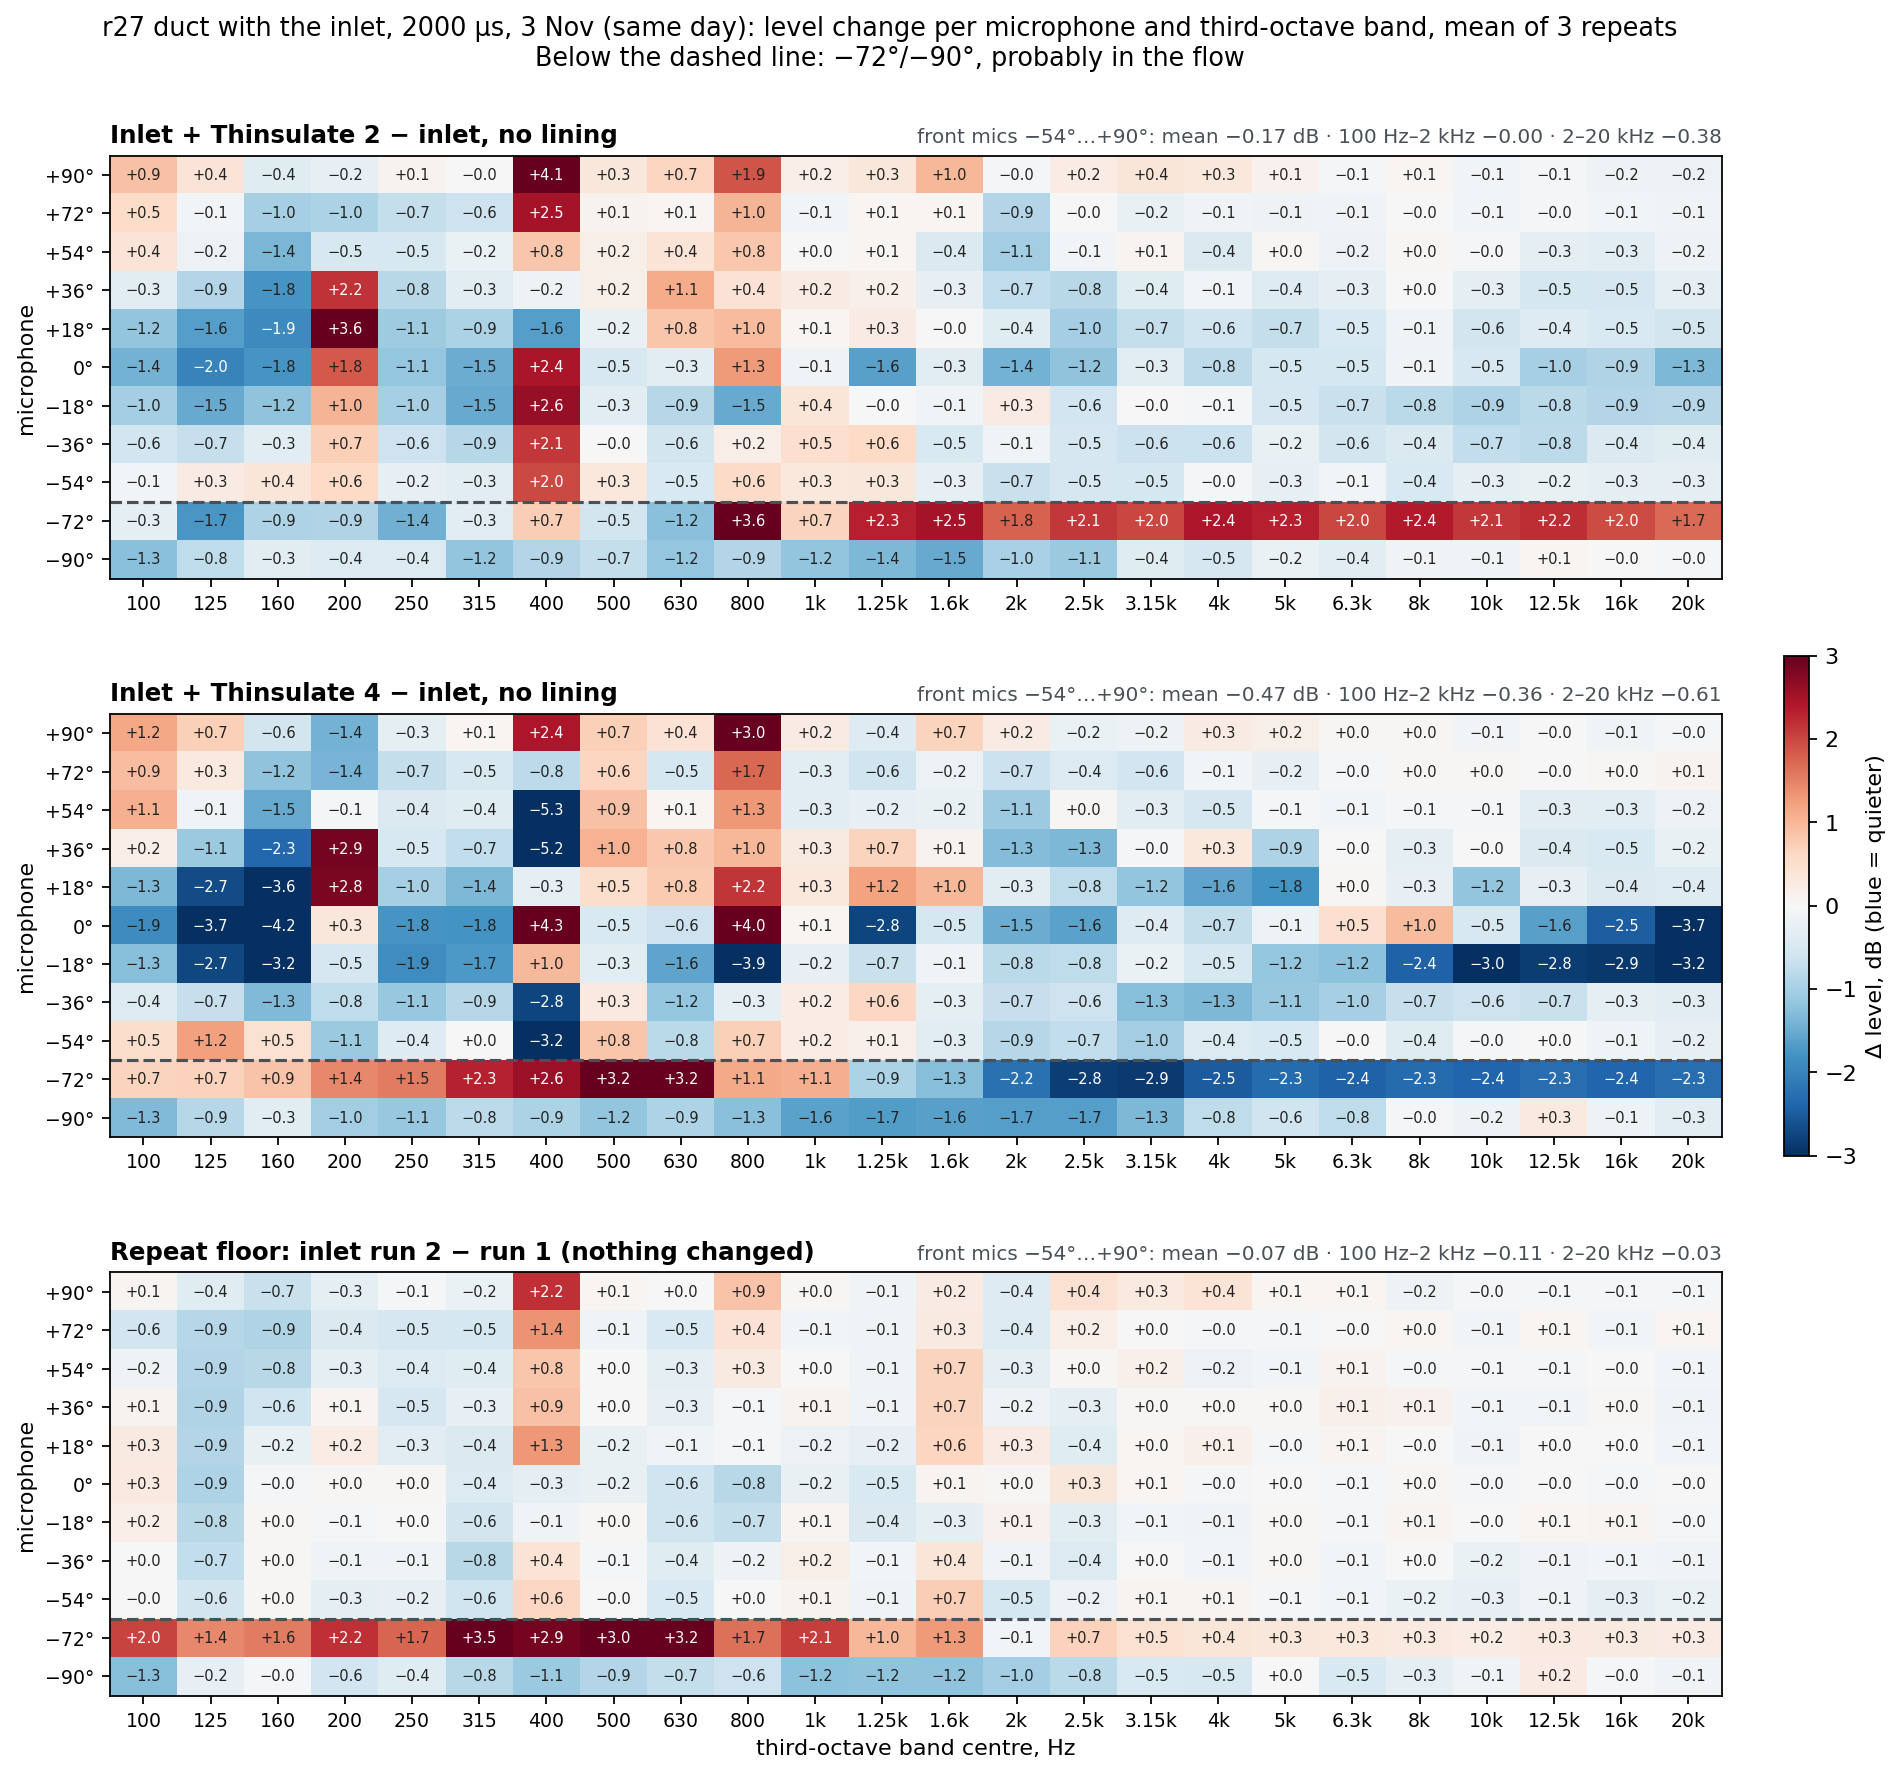
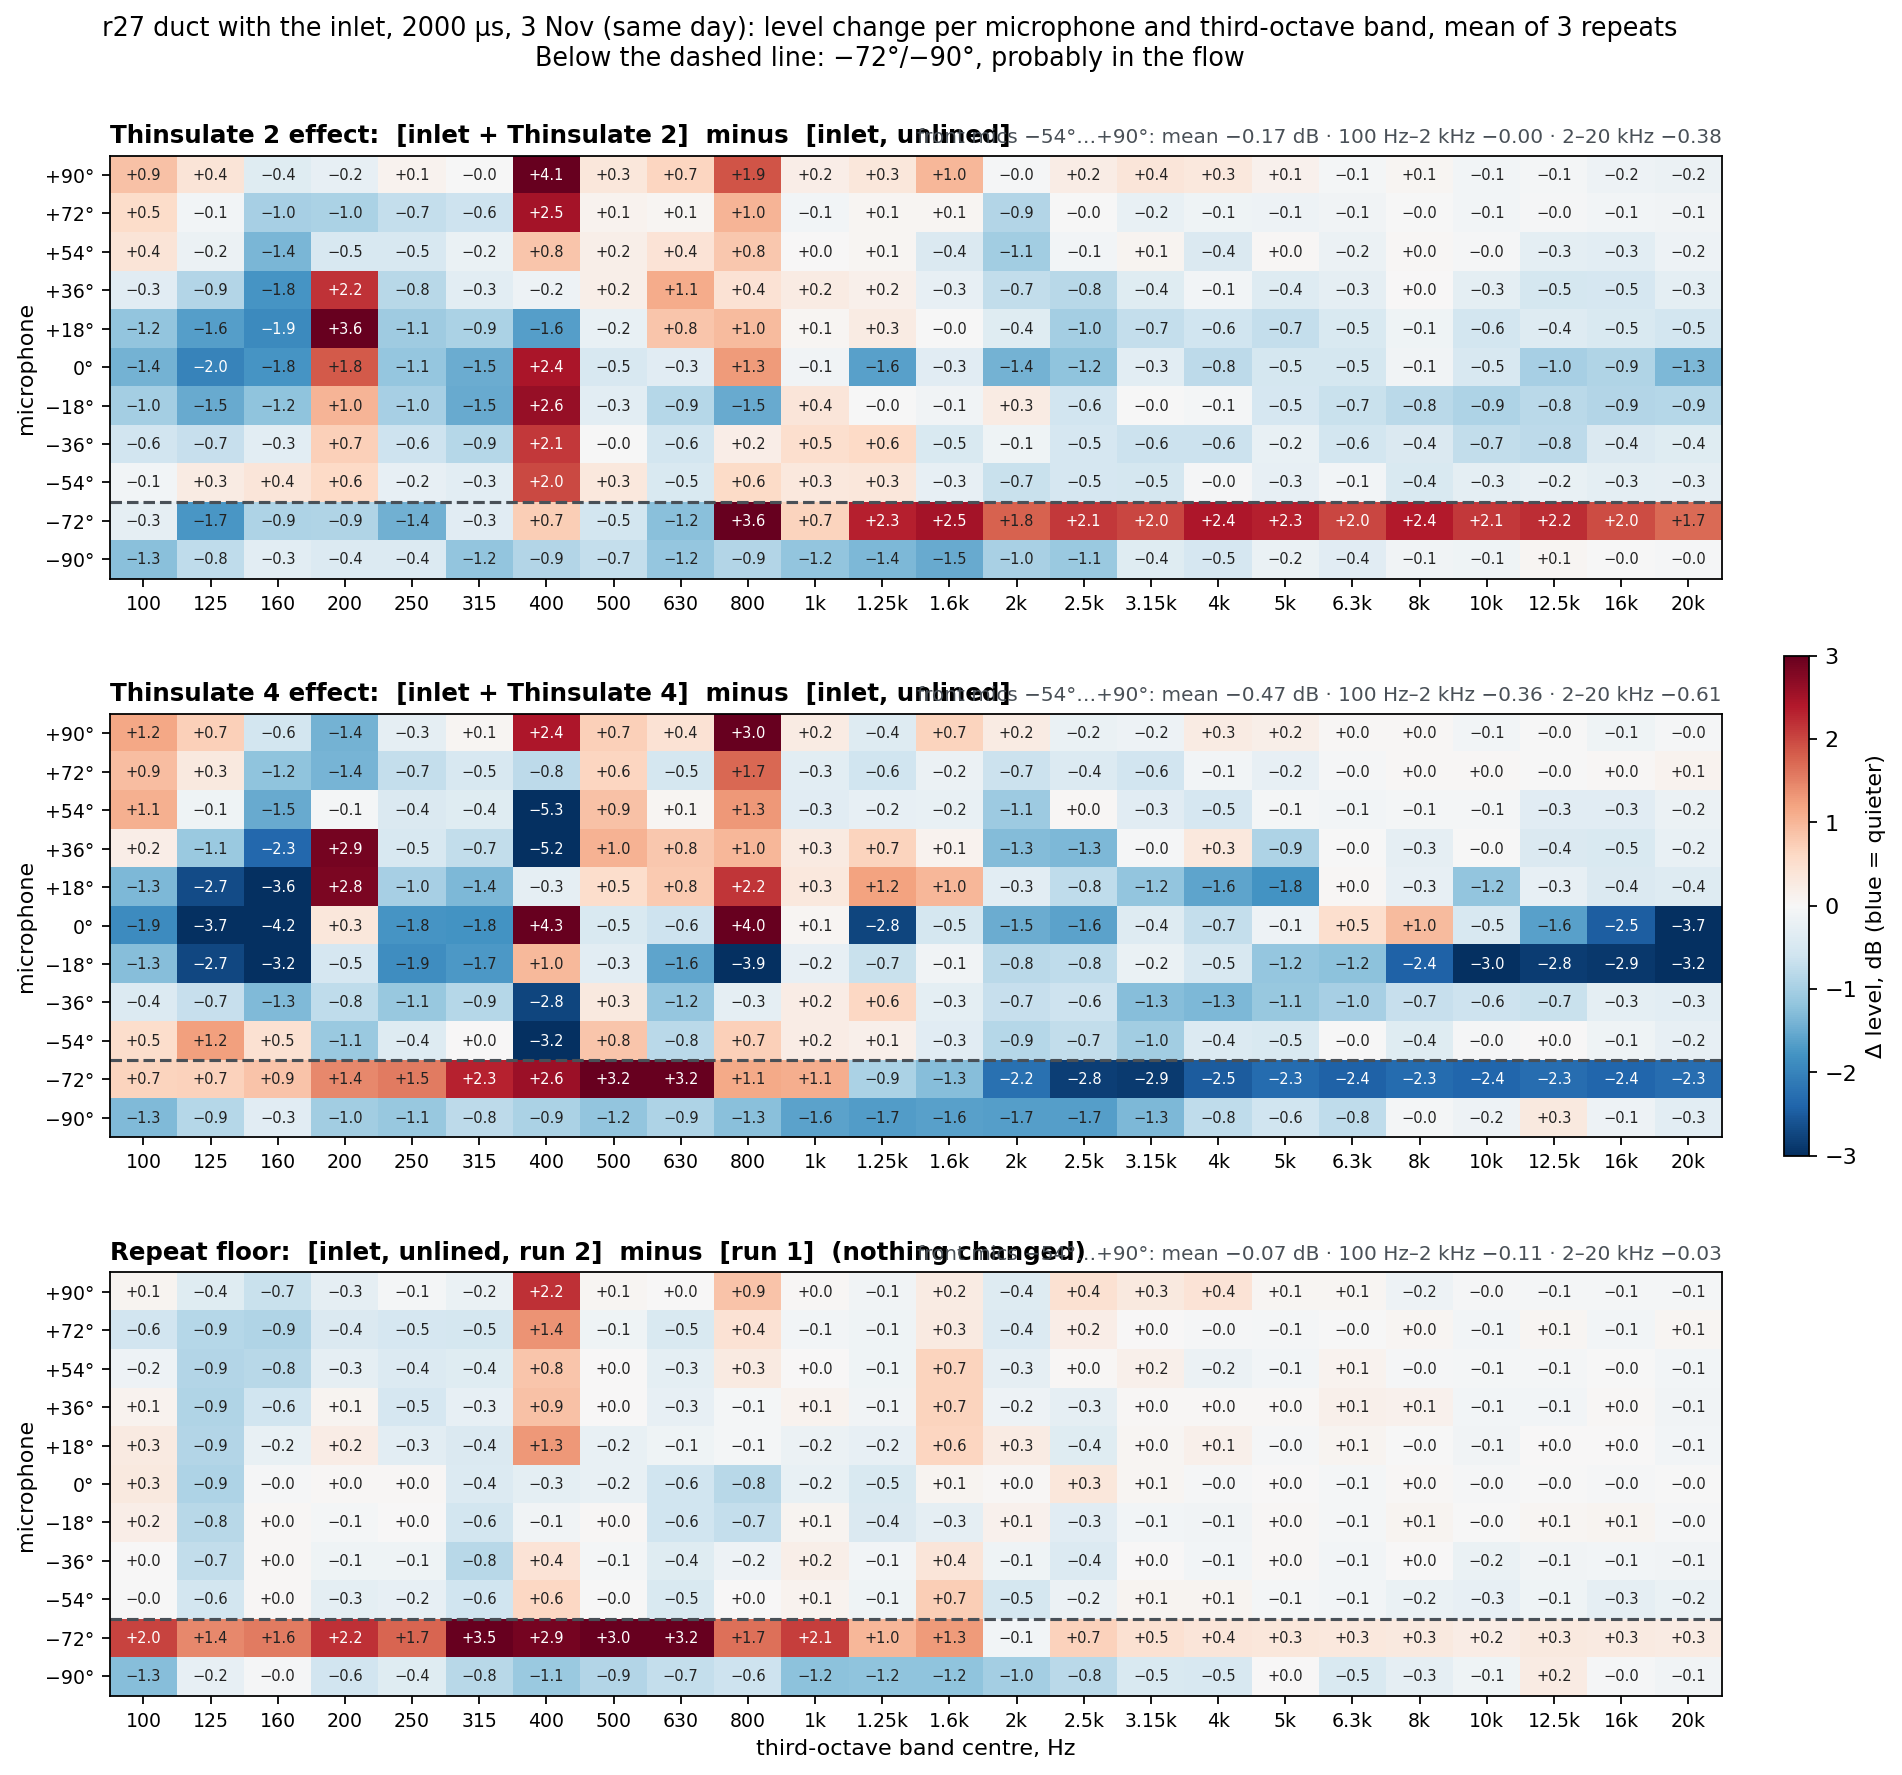
r27 heatmap: clearer panel titles ([A] minus [B]) - 'inlet + Thinsulate - inlet, no lining' read as one name

Changed region(s): [[0.062, 0.3718, 0.5273, 0.4028], [0.062, 0.062, 0.5273, 0.093], [0.1551, 0.6817, 0.5584, 0.7127]]

diff --git a/docs/analysis/chamber-final-2026-10-01/slides/make_r27_heatmap.py b/docs/analysis/chamber-final-2026-10-01/slides/make_r27_heatmap.py
@@ -29,9 +29,9 @@ for k, base in SETS.items():
     el = gs[0]['elev']
     R[k] = np.mean([bands(g) for g in gs], 0)
 
-PANELS = [('Inlet + Thinsulate 2 − inlet, no lining', R['i_thin2'] - R['inlet']),
-          ('Inlet + Thinsulate 4 − inlet, no lining', R['i_thin4'] - R['inlet']),
-          ('Repeat floor: inlet run 2 − run 1 (nothing changed)', R['inlet_b'] - R['inlet'])]
+PANELS = [('Thinsulate 2 effect:  [inlet + Thinsulate 2]  minus  [inlet, unlined]', R['i_thin2'] - R['inlet']),
+          ('Thinsulate 4 effect:  [inlet + Thinsulate 4]  minus  [inlet, unlined]', R['i_thin4'] - R['inlet']),
+          ('Repeat floor:  [inlet, unlined, run 2]  minus  [run 1]  (nothing changed)', R['inlet_b'] - R['inlet'])]
 LIM = 3
 fig, axs = plt.subplots(3, 1, figsize=(13, 12.5), dpi=160, gridspec_kw=dict(hspace=.32))
 for ax, (title, d) in zip(axs, PANELS):
